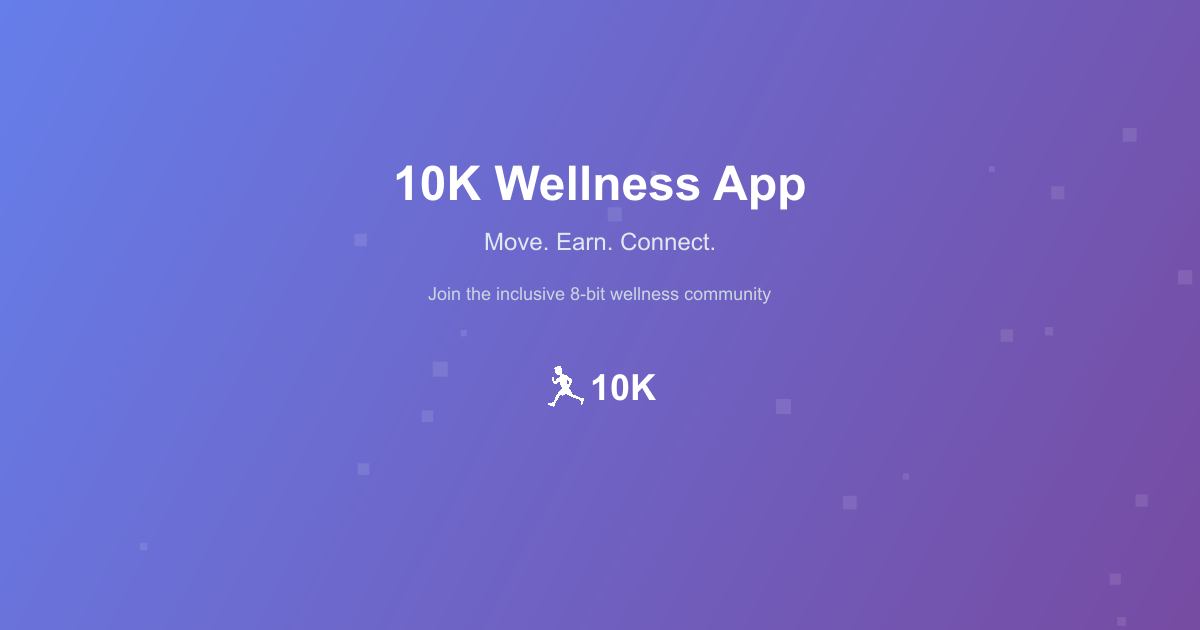
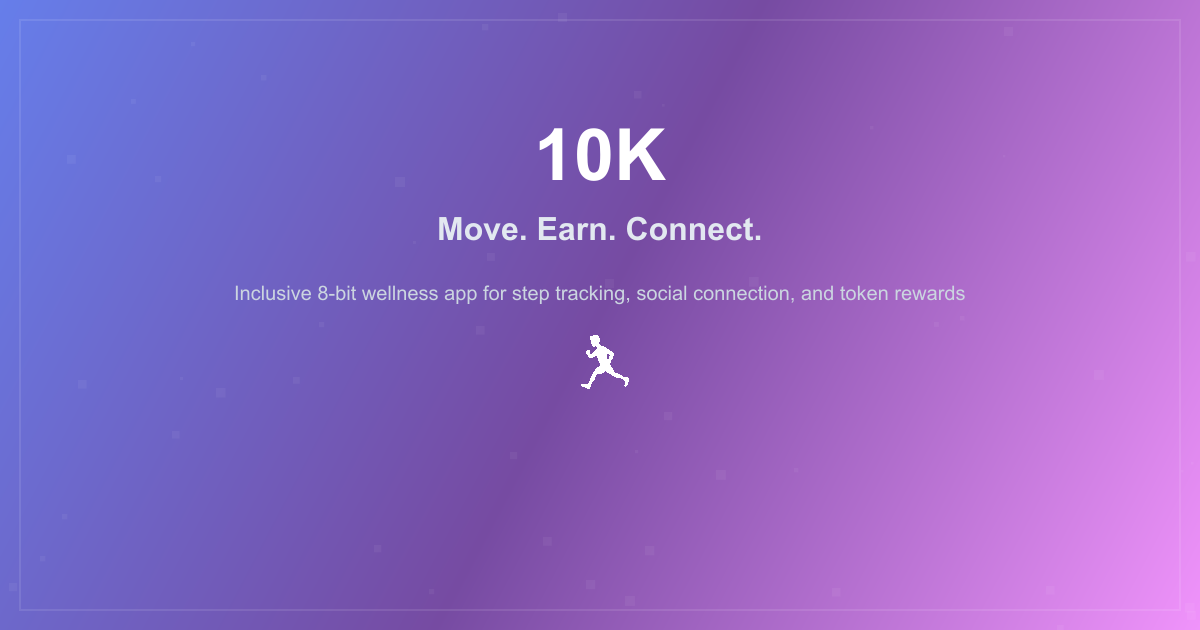
feat: update frame image design and button title to 'Move. Earn. Connect.'

diff --git a/generate-frame-images.js b/generate-frame-images.js
@@ -5,9 +5,9 @@ import { createCanvas } from 'canvas';
 const frameConfigs = [
   {
     name: 'frame-image.png',
-    title: '10K Wellness App',
+    title: '10K',
     subtitle: 'Move. Earn. Connect.',
-    description: 'Join the inclusive 8-bit wellness community'
+    description: 'Inclusive 8-bit wellness app for step tracking, social connection, and token rewards'
   },
   {
     name: 'frame-connect.png',
@@ -35,42 +35,48 @@ function createFrameImage(config) {
   const canvas = createCanvas(width, height);
   const ctx = canvas.getContext('2d');
 
-  // Background gradient
+  // Background gradient matching landing page
   const gradient = ctx.createLinearGradient(0, 0, width, height);
   gradient.addColorStop(0, '#667eea');
-  gradient.addColorStop(1, '#764ba2');
+  gradient.addColorStop(0.5, '#764ba2');
+  gradient.addColorStop(1, '#f093fb');
   ctx.fillStyle = gradient;
   ctx.fillRect(0, 0, width, height);
 
-  // Add some 8-bit style elements
-  ctx.fillStyle = 'rgba(255, 255, 255, 0.1)';
-  for (let i = 0; i < 20; i++) {
+  // Add subtle 8-bit style pixel elements
+  ctx.fillStyle = 'rgba(255, 255, 255, 0.05)';
+  for (let i = 0; i < 50; i++) {
     const x = Math.random() * width;
     const y = Math.random() * height;
-    const size = Math.random() * 10 + 5;
-    ctx.fillRect(x, y, size, size);
+    const size = Math.random() * 8 + 2;
+    ctx.fillRect(Math.floor(x), Math.floor(y), size, size);
   }
 
-  // Title
+  // Main title with larger, bolder font
   ctx.fillStyle = '#ffffff';
-  ctx.font = 'bold 48px Arial';
+  ctx.font = 'bold 72px Arial, sans-serif';
   ctx.textAlign = 'center';
-  ctx.fillText(config.title, width / 2, 200);
+  ctx.fillText(config.title, width / 2, 180);
 
-  // Subtitle
-  ctx.font = '24px Arial';
+  // Subtitle with the tagline
+  ctx.font = 'bold 32px Arial, sans-serif';
   ctx.fillStyle = '#e2e8f0';
-  ctx.fillText(config.subtitle, width / 2, 250);
+  ctx.fillText(config.subtitle, width / 2, 240);
 
   // Description
-  ctx.font = '18px Arial';
+  ctx.font = '20px Arial, sans-serif';
   ctx.fillStyle = '#cbd5e0';
   ctx.fillText(config.description, width / 2, 300);
 
-  // 10K logo/icon
+  // 10K logo/icon with emoji
   ctx.fillStyle = '#ffffff';
-  ctx.font = 'bold 36px Arial';
-  ctx.fillText('🏃♂ 10K', width / 2, 400);
+  ctx.font = 'bold 48px Arial, sans-serif';
+  ctx.fillText('🏃♂', width / 2, 380);
+
+  // Add a subtle border
+  ctx.strokeStyle = 'rgba(255, 255, 255, 0.1)';
+  ctx.lineWidth = 2;
+  ctx.strokeRect(20, 20, width - 40, height - 40);
 
   // Save the image
   const buffer = canvas.toBuffer('image/png');
@@ -86,4 +92,4 @@ if (!fs.existsSync('public')) {
 // Generate all frame images
 frameConfigs.forEach(createFrameImage);
 
-console.log('All frame images generated successfully!'); 
+console.log('All frame images generated successfully!');

diff --git a/index.html b/index.html
@@ -10,7 +10,7 @@
     <!-- Open Graph Meta Tags for Embedding -->
     <meta property="og:title" content="10K - Move. Earn. Connect." />
     <meta property="og:description" content="Inclusive 8-bit wellness app for step tracking, social connection, and token rewards" />
-    <meta property="og:image" content="https://www.move10k.xyz/frame-image.png?v=1" />
+    <meta property="og:image" content="https://www.move10k.xyz/frame-image.png?v=2" />
     <meta property="og:image:width" content="1200" />
     <meta property="og:image:height" content="630" />
     <meta property="og:image:type" content="image/png" />
@@ -24,13 +24,13 @@
     <meta name="twitter:card" content="summary_large_image" />
     <meta name="twitter:title" content="10K - Move. Earn. Connect." />
     <meta name="twitter:description" content="Inclusive 8-bit wellness app for step tracking, social connection, and token rewards" />
-    <meta name="twitter:image" content="https://www.move10k.xyz/frame-image.png?v=1" />
+    <meta name="twitter:image" content="https://www.move10k.xyz/frame-image.png?v=2" />
     <meta name="twitter:image:alt" content="10K Wellness App - Move. Earn. Connect." />
     <meta name="twitter:site" content="@move10k" />
     <meta name="twitter:creator" content="@move10k" />
     
     <!-- Farcaster Frame Meta Tag (JSON format) -->
-    <meta name="fc:frame" content='{"version":"next","imageUrl":"https://www.move10k.xyz/frame-image.png?v=1","button":{"title":"🏃♂ Start 10K","action":{"type":"launch_frame","url":"https://www.move10k.xyz","name":"10K Wellness","splashImageUrl":"https://www.move10k.xyz/frame-image.png?v=1","splashBackgroundColor":"#667eea"}}}' />
+    <meta name="fc:frame" content='{"version":"next","imageUrl":"https://www.move10k.xyz/frame-image.png?v=2","button":{"title":"Move. Earn. Connect.","action":{"type":"launch_frame","url":"https://www.move10k.xyz","name":"10K Wellness","splashImageUrl":"https://www.move10k.xyz/frame-image.png?v=2","splashBackgroundColor":"#667eea"}}}' />
     
     <!-- Web App Manifest -->
     <link rel="manifest" href="/manifest.json" />
